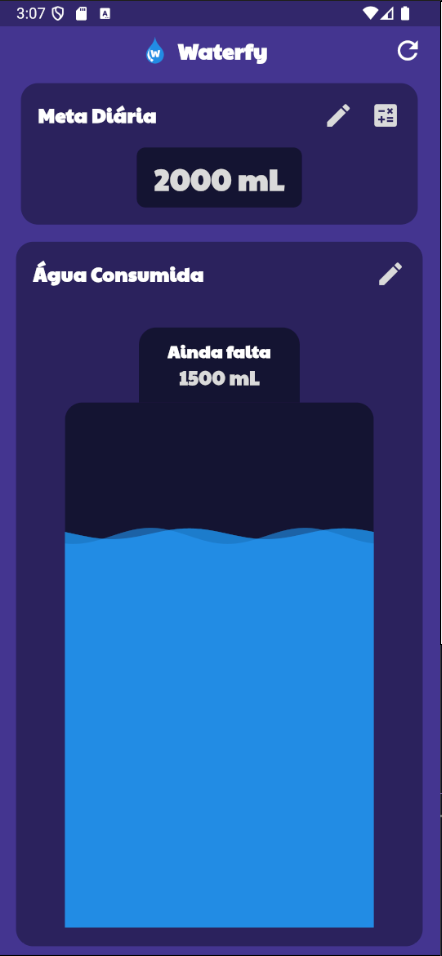
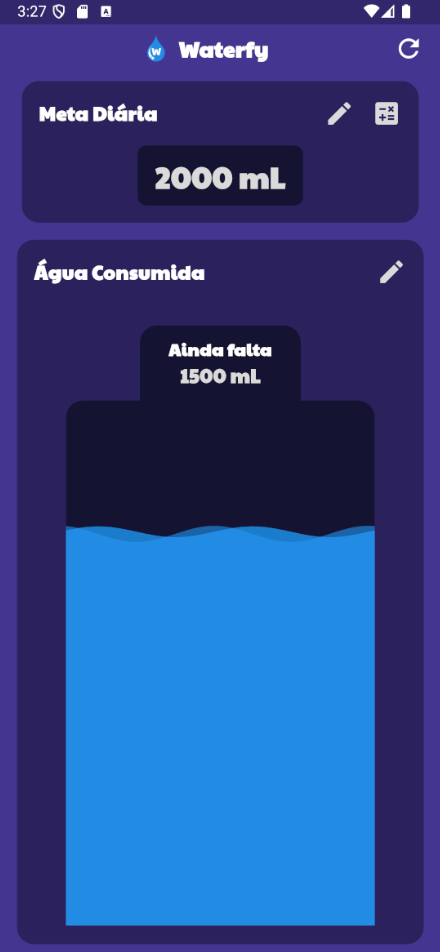
Correção Bug Ondas

diff --git a/lib/main.dart b/lib/main.dart
@@ -286,7 +286,7 @@ class _WaterfyScreenState extends State<WaterfyScreen>
                                           MainAxisAlignment.center,
                                       children: [
                                         const Text(
-                                          "Ainda falta",
+                                          "Ainda faltam",
                                           style: TextStyle(
                                             color: Colors.white,
                                             fontSize: 16,
@@ -867,14 +867,6 @@ class WaterWavePainter extends CustomPainter {
       yOffset += topOffset;
     }
 
-    final roundedRect = RRect.fromRectAndCorners(
-      Rect.fromLTRB(0, yOffset, size.width, size.height),
-      bottomLeft: Radius.circular(16),
-      bottomRight: Radius.circular(16),
-    );
-
-    canvas.clipRRect(roundedRect);
-
     path1.moveTo(0, yOffset);
     for (double x = 0; x <= size.width; x++) {
       path1.lineTo(
@@ -888,7 +880,6 @@ class WaterWavePainter extends CustomPainter {
     path1.lineTo(0, size.height);
     path1.close();
 
-    // Segunda onda
     path2.moveTo(0, yOffset + 2);
     for (double x = 0; x <= size.width; x++) {
       path2.lineTo(
@@ -906,6 +897,7 @@ class WaterWavePainter extends CustomPainter {
     path2.close();
 
     canvas.drawPath(path1, paint);
+
     canvas.drawPath(
       path2,
       Paint()..color = Colors.blue.withOpacity(0.6),
@@ -915,4 +907,3 @@ class WaterWavePainter extends CustomPainter {
   @override
   bool shouldRepaint(covariant CustomPainter oldDelegate) => true;
 }
-
